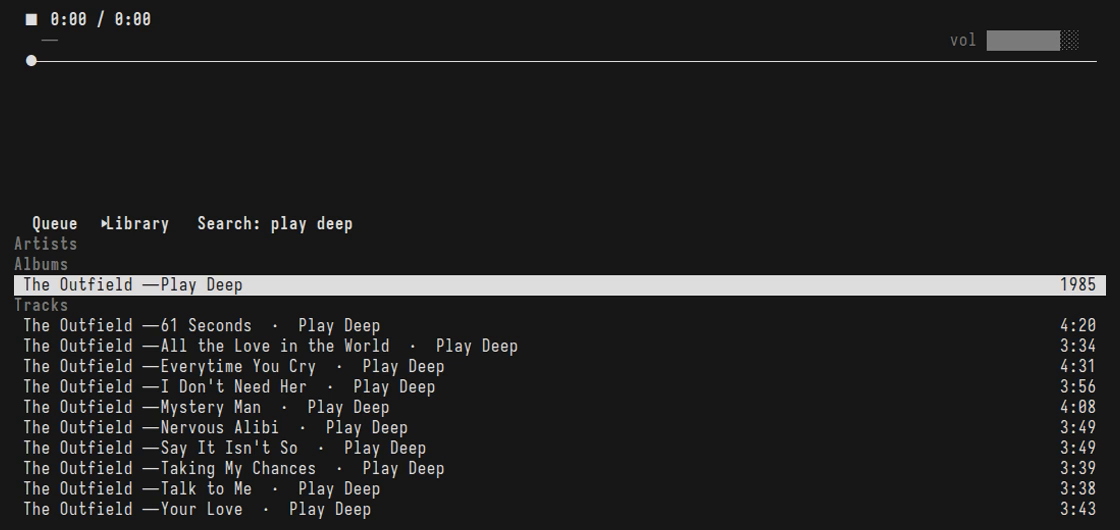
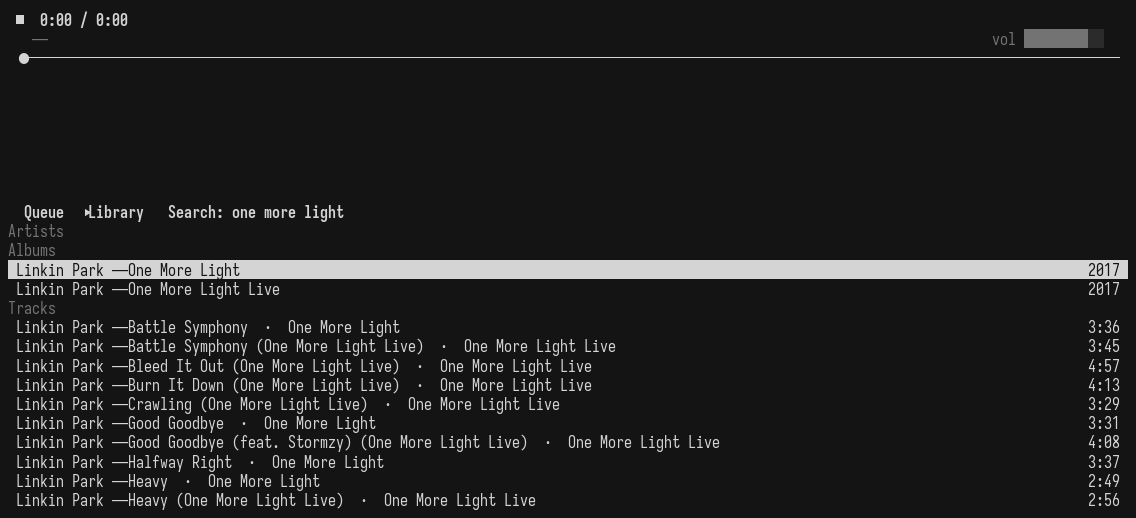
docs: record the pictures with asciinema and agg, on One More Light
agg draws braille itself, so the dots tile with no seam between cell
rows at a comfortable line height, which VHS could not do. The tour and
the clip now play Linkin Park's One More Light; stills are rendered by
agg at chosen times rather than cut from a GIF, and RENDER_ONLY=1
re-renders from kept recordings.

diff --git a/README.md b/README.md
@@ -107,7 +107,7 @@ On macOS 15 and later the terminal app needs Local Network access the first time
     make mac        # darwin/arm64
     make windows    # windows/amd64
     make test
-    make demo       # re-record the pictures in docs/ (needs vhs, ttyd, Chrome, Iosevka)
+    make demo       # re-record the pictures in docs/ (needs tmux, asciinema, agg, ffmpeg, Iosevka)
 
 Pure Go, no cgo, on every platform.
 
